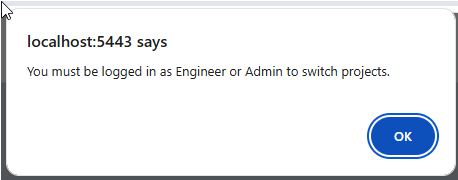
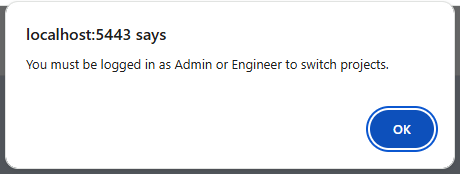
docs(sentinel): Chapter 2 screenshot 13 shows Admin or Engineer wording

Changed region(s): [[0.0, 0.0, 1.0, 0.977]]

diff --git a/sentinel-scada/docs/tutorial/02-create-new-project/index.html b/sentinel-scada/docs/tutorial/02-create-new-project/index.html
@@ -124,7 +124,7 @@
   </figure>
   <p>If you are challenged for Admin or Engineer credentials&hellip;</p>
   <figure>
-    <img src="13.png" alt="A message saying you must be logged in" width="458" height="180">
+    <img src="13.png" alt="A message saying you must be logged in as Admin or Engineer" width="460" height="174">
   </figure>
   <p>&hellip;choose <b>Security &gt; Log In&hellip;</b></p>
   <figure>
